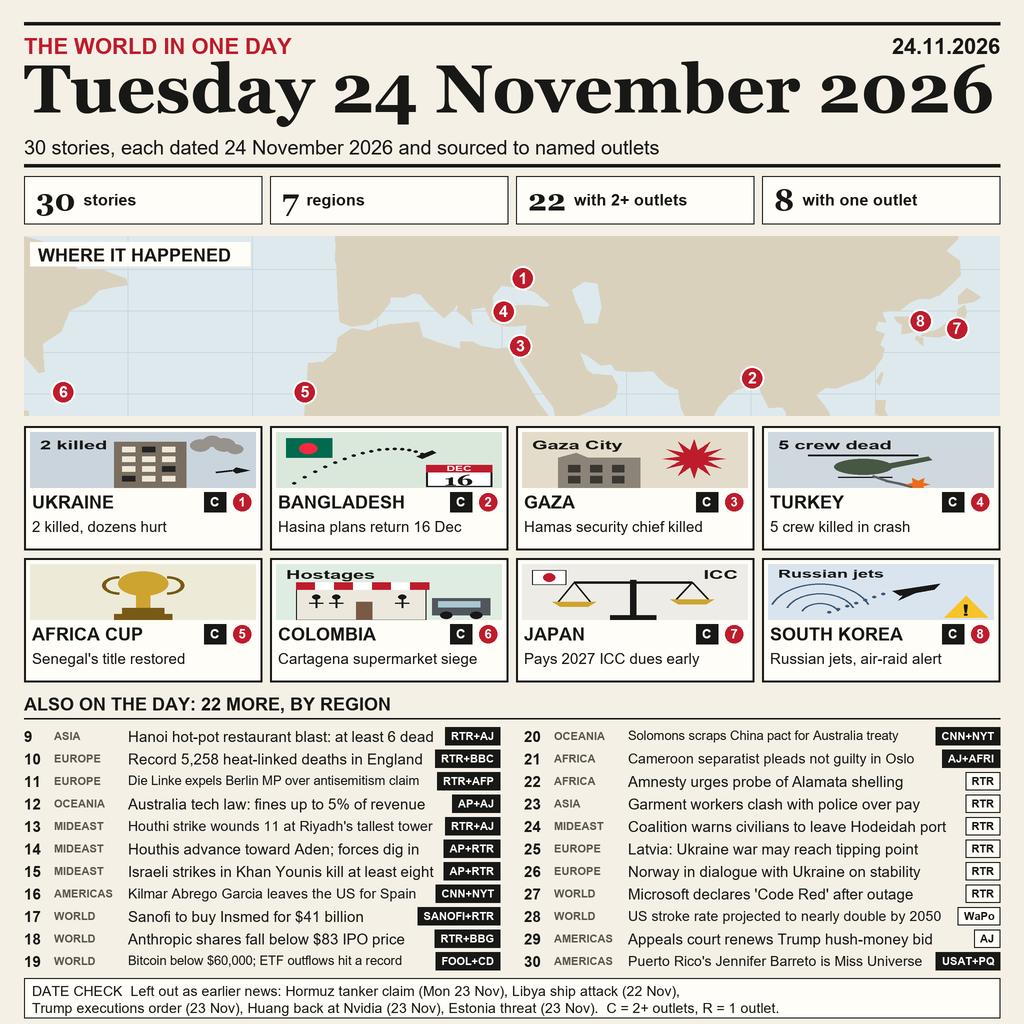
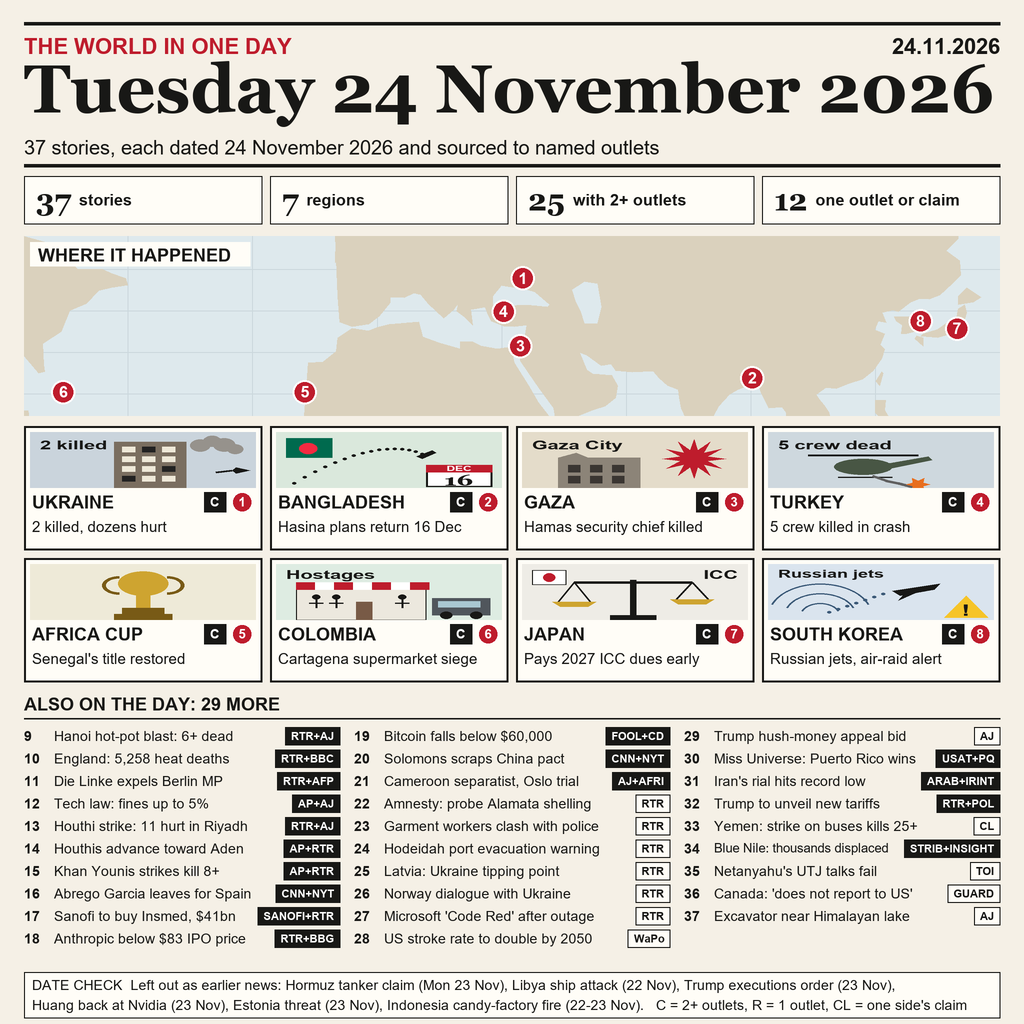
feat: 37 items in three columns, claim tag CL, source labels fixed
Adds seven 24 Nov items (one tagged CL for a claim by one side), moves the list to three columns, and shortens list lines. README counts and the tag legend are updated.

diff --git a/tools/render_front_page.py b/tools/render_front_page.py
@@ -38,22 +38,41 @@ base.MAP_Y, base.MAP_H = 236, 180
 
 # Short one-line texts for the list (full titles stay in stories.json for the README).
 SHORT = {
-    12: "Australia tech law: fines up to 5% of revenue",
-    14: "Houthis advance toward Aden; forces dig in",
-    19: "Bitcoin below $60,000; ETF outflows hit a record",
-    20: "Solomons scraps China pact for Australia treaty",
-    21: "Cameroon separatist pleads not guilty in Oslo",
-    22: "Amnesty urges probe of Alamata shelling",
-    23: "Garment workers clash with police over pay",
-    25: "Latvia: Ukraine war may reach tipping point",
-    26: "Norway in dialogue with Ukraine on stability",
-    27: "Microsoft declares 'Code Red' after outage",
-    29: "Appeals court renews Trump hush-money bid",
-    30: "Puerto Rico's Jennifer Barreto is Miss Universe",
+    9: "Hanoi hot-pot blast: 6+ dead",
+    10: "England: 5,258 heat deaths",
+    11: "Die Linke expels Berlin MP",
+    12: "Tech law: fines up to 5%",
+    13: "Houthi strike: 11 hurt in Riyadh",
+    14: "Houthis advance toward Aden",
+    15: "Khan Younis strikes kill 8+",
+    16: "Abrego Garcia leaves for Spain",
+    17: "Sanofi to buy Insmed, $41bn",
+    18: "Anthropic below $83 IPO price",
+    19: "Bitcoin falls below $60,000",
+    20: "Solomons scraps China pact",
+    21: "Cameroon separatist, Oslo trial",
+    22: "Amnesty: probe Alamata shelling",
+    23: "Garment workers clash with police",
+    24: "Hodeidah port evacuation warning",
+    25: "Latvia: Ukraine tipping point",
+    26: "Norway dialogue with Ukraine",
+    27: "Microsoft 'Code Red' after outage",
+    28: "US stroke rate to double by 2050",
+    29: "Trump hush-money appeal bid",
+    30: "Miss Universe: Puerto Rico wins",
+    31: "Iran's rial hits record low",
+    32: "Trump to unveil new tariffs",
+    33: "Yemen: strike on buses kills 25+",
+    34: "Blue Nile: thousands displaced",
+    35: "Netanyahu's UTJ talks fail",
+    36: "Canada: 'does not report to US'",
+    37: "Excavator near Himalayan lake",
 }
 
 
 def tag_of(item):
+    if item.get("claim"):
+        return "CL"
     return "C" if len(item["sources"]) >= 2 else "R"
 
 
@@ -100,23 +119,26 @@ ABBR = {
     "AFP (copy via NAMPA)": "AFP", "CNN": "CNN", "New York Times": "NYT", "Washington Post": "WaPo",
     "USA Today": "USAT", "Pasquines": "PQ", "Africanews": "AFRI", "ABC (Australia)": "ABC",
     "Sanofi (press release)": "SANOFI", "Bloomberg": "BBG", "CNBC": "CNBC", "The Motley Fool": "FOOL",
-    "CoinDesk": "CD",
+    "CoinDesk": "CD", "Al Arabiya": "ARAB", "Iran International": "IRINT", "Sudan Tribune": "STRIB",
+    "The Insight International": "INSIGHT", "Times of Israel": "TOI", "The Guardian": "GUARD",
+    "Gulf Today": "GT", "AFP (copy via BSS)": "AFP", "Politico": "POL", "Sanofi (press release)": "SANOFI",
 }
 
 
 def source_label(item):
+    if item.get("claim"):
+        return "CL"
     names = [ABBR.get(s["outlet"], s["outlet"][:6].upper()) for s in item["sources"][:2]]
     return "+".join(names)
 
 
-def draw_item(d, item, x, y, width=488):
-    base.text(d, x, y, str(item["n"]), base.font("sans_b", 15))
-    base.text(d, x + 30, y + 2, item["region"], base.font("sans_b", 11), fill=MUTED)
+def draw_item(d, item, x, y, width=316):
+    base.text(d, x, y, str(item["n"]), base.font("sans_b", 14))
     label = source_label(item)
     badge_w = base.font("sans_b", 11).getlength(label) / SS + 12
     text = SHORT.get(item["n"], item.get("text", ""))
-    max_w = width - 104 - badge_w - 10
-    base.text(d, x + 104, y, text, base.fit_font("sans", text, max_w, 15, 12))
+    max_w = width - 34 - badge_w - 8
+    base.text(d, x + 30, y, text, base.fit_font("sans", text, max_w, 14, 11))
     t = tag_of(item)
     bx, by = x + width - badge_w, y - 1
     base.rect(d, bx, by, x + width, by + 18, fill=INK if t == "C" else PANEL, outline=INK, width=1)
@@ -146,7 +168,7 @@ def main():
 
     # numbers strip
     tiles = [(str(count), "stories"), (str(len(regions)), "regions"),
-             (str(c_count), "with 2+ outlets"), (str(r_count), "with one outlet")]
+             (str(c_count), "with 2+ outlets"), (str(r_count), "one outlet or claim")]
     tw = (976 - 3 * 8) / 4
     for i, (num, label) in enumerate(tiles):
         x = 24 + i * (tw + 8)
@@ -169,20 +191,22 @@ def main():
         draw_lead(d, img, lead, cols[i % 4], rows[i // 4])
 
     # the list: two columns
-    base.text(d, 24, 694, f"ALSO ON THE DAY: {len(items)} MORE, BY REGION", base.font("sans_b", 18))
+    base.text(d, 24, 694, f"ALSO ON THE DAY: {len(items)} MORE", base.font("sans_b", 18))
     base.rect(d, 24, 718, 1000, 719, fill=INK)
-    half = (len(items) + 1) // 2
+    per_col = 10
+    col_x = [24, 354, 684]
     for k, item in enumerate(items):
-        col, row = (0, k) if k < half else (1, k - half)
-        x = 24 if col == 0 else 524
-        draw_item(d, item, x, 728 + row * 22.5, width=476)
+        col, row = k // per_col, k % per_col
+        draw_item(d, item, col_x[col], 728 + row * 22.5, width=316)
 
     # date check box: what was left out as earlier news, and how to read the tags
-    base.rect(d, 24, 978, 1000, 1018, fill=PANEL, outline=INK, width=1)
-    base.text(d, 32, 983, "DATE CHECK  Left out as earlier news: Hormuz tanker claim (Mon 23 Nov), Libya ship attack (22 Nov),",
-              base.fit_font("sans", "DATE CHECK  Left out as earlier news: Hormuz tanker claim (Mon 23 Nov), Libya ship attack (22 Nov),", 960, 14, 11))
-    base.text(d, 32, 1000, "Trump executions order (23 Nov), Huang back at Nvidia (23 Nov), Estonia threat (23 Nov).  C = 2+ outlets, R = 1 outlet.",
-              base.fit_font("sans", "Trump executions order (23 Nov), Huang back at Nvidia (23 Nov), Estonia threat (23 Nov).  C = 2+ outlets, R = 1 outlet.", 960, 14, 11))
+    line1 = ("DATE CHECK  Left out as earlier news: Hormuz tanker claim (Mon 23 Nov), Libya ship attack (22 Nov),"
+             " Trump executions order (23 Nov),")
+    line2 = ("Huang back at Nvidia (23 Nov), Estonia threat (23 Nov), Indonesia candy-factory fire (22-23 Nov).   "
+             "C = 2+ outlets, R = 1 outlet, CL = one side's claim")
+    base.rect(d, 24, 972, 1000, 1018, fill=PANEL, outline=INK, width=1)
+    base.text(d, 32, 977, line1, base.fit_font("sans", line1, 960, 14, 11))
+    base.text(d, 32, 997, line2, base.fit_font("sans", line2, 960, 14, 11))
 
     img = img.resize((W, H), Image.Resampling.LANCZOS)
     img.save(OUT, format="PNG", optimize=True)

diff --git a/README.md b/README.md
@@ -12,10 +12,10 @@ Tuesday 24 November 2026. `main.ts` copies the image to `MAKEFUN_OUTPUT_DIR`.
 
 ## What the page says
 
-- 30 items, each an event that happened or was first reported on 24 November 2026.
-- 8 illustrated leads with numbered pins, and 22 one-line items by region.
+- 37 items, each an event that happened or was first reported on 24 November 2026.
+- 8 illustrated leads with numbered pins, and 29 one-line items in three columns.
 - Each item carries a tag. `C` means two or more outlets report it. `R` means one
-  outlet reports it. The tags replace the brief's rule that every item needs
+  outlet reports it. `CL` marks a claim by one side, shown as a claim. The tags replace the brief's rule that every item needs
   two of AP, Reuters, AFP, BBC and Al Jazeera. The change was approved by the
   entry owner. Items that could not be dated to 24 November were left out.
 
@@ -59,6 +59,13 @@ date in the URL when the page could not be read. Checked on 25 and 26 November
 | 28 | US stroke rate projected to nearly double by 2050 | R | Washington Post, 24 Nov 2026 (URL date): https://www.washingtonpost.com/wellness/2026/11/24/us-stroke-rate-projected-almost-double-by-2050/ |
 | 29 | Appeals court renews Trump bid for federal jurisdiction in hush-money case | R | Al Jazeera, 24 Nov 2026 (URL date): https://www.aljazeera.com/news/2026/11/24/appeals-court-renews-trump-bid-for-federal-jurisdiction-in-hush-money-case |
 | 30 | Jennifer Barreto of Puerto Rico crowned Miss Universe | C | USA Today, 24 Nov 2026 (URL date): https://www.usatoday.com/story/entertainment/style/2026/11/24/miss-universe-2026-winner/92923893007/; Pasquines, 24 Nov 2026 (URL date): https://pasquines.us/2026/11/24/jennifer-barreto-puerto-rico-wins-miss-universe-2026/ |
+| 31 | Iran's rial hits record low | C | Al Arabiya, 24 Nov 2026 (URL date): https://english.alarabiya.net/News/middle-east/2026/11/24/iran-currency-plunges-after-fresh-us-sanctions; Iran International, 24 Nov 2026 (URL date): https://www.iranintl.com/en/202611246967 |
+| 32 | Trump to unveil new tariffs | C | Reuters, 24 Nov 2026 (URL date): https://www.reuters.com/world/us/trump-administration-set-unveil-new-tariffs-after-probe-on-excess-factory-2026-11-24/; Politico, 24 Nov 2026 (URL date): https://www.politico.com/news/2026/11/24/trump-tariffs-china-eu-mexico-manufacturing-01181685 |
+| 33 | Yemen: strike on buses kills 25+ | CL | AFP (copy via BSS), dateline: Sanaa, Nov 24, 2026 (BSS/AFP); figures from Yemeni officials: https://www.bssnews.net/international/449523; Gulf Today, 24 Nov 2026 (URL date); figures from Houthi media: https://www.gulftoday.ae/news/2026/11/24/25-dead-or-missing-after-saudi-strikes-in-yemen-houthi-media |
+| 34 | Blue Nile: thousands displaced | C | Sudan Tribune, dateline: Ed Damazin, November 24, 2026: https://sudantribune.com/article/321584; The Insight International, 24 Nov 2026 (URL date): https://theinsightinternational.com/sudan-blue-nile-siha-28-women-girls-abducted-sexual-violence-girls-november-24/ |
+| 35 | Netanyahu's UTJ talks fail | R | Times of Israel, 24 Nov 2026 (URL date, live blog): https://www.timesofisrael.com/liveblog-november-24-2026/ |
+| 36 | Canada: 'does not report to US' | R | The Guardian, 24 Nov 2026 (URL date): https://www.theguardian.com/world/2026/nov/24/canada-sovereign-nation-us-relations-defence-pentagon-memo |
+| 37 | Excavator near Himalayan lake | R | Al Jazeera, 24 Nov 2026 (URL date, video page): https://www.aljazeera.com/video/newsfeed/2026/11/24/24-11-sv-sheshnag-lake-excavators-kashmir |
 
 <!-- sources:end -->
 
